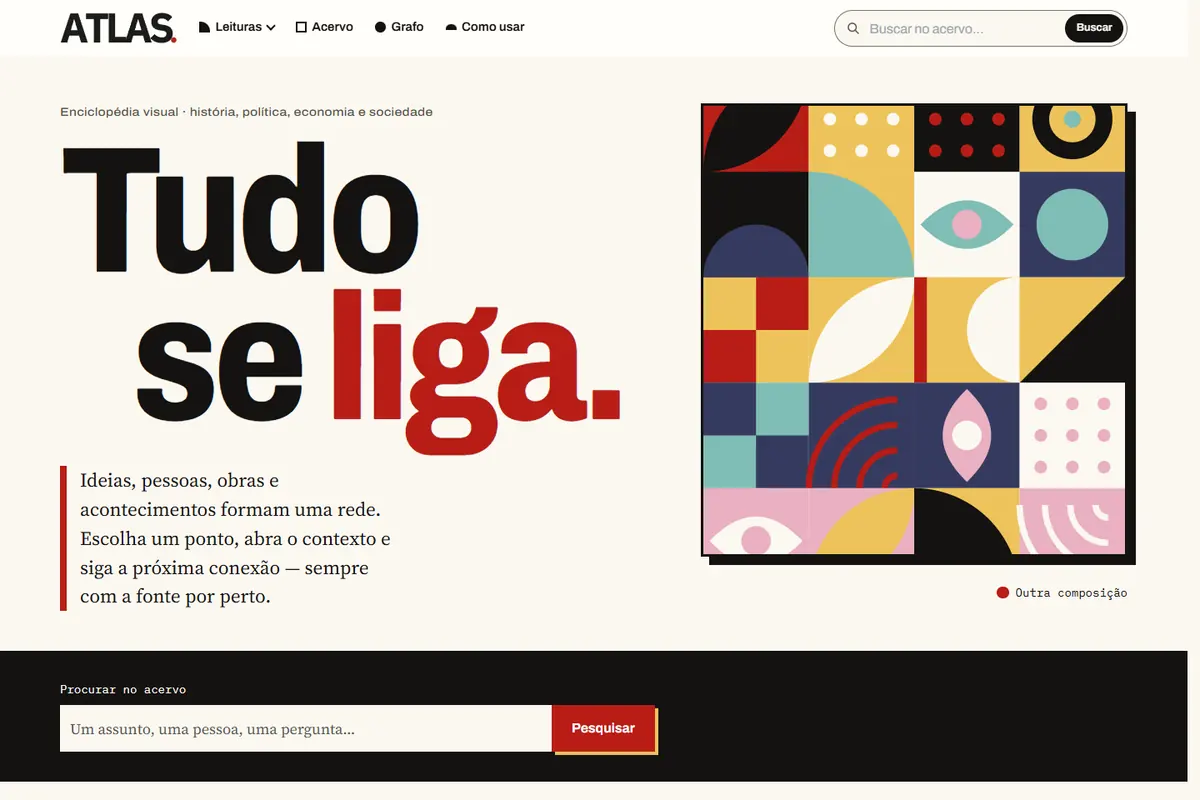
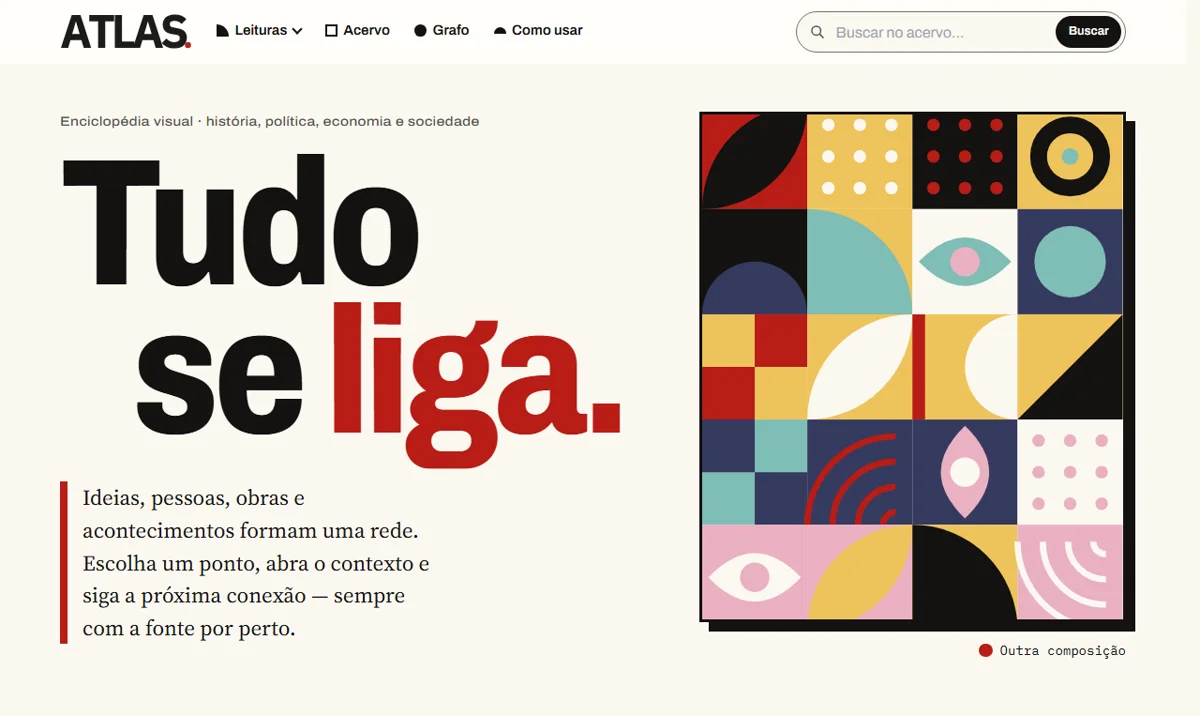
docs: add Dalibre and Scriptorium projects and update ATLAS preview

diff --git a/README.md b/README.md
@@ -45,14 +45,19 @@ My core is **TypeScript, React, Angular and Node.js**. Around it: REST APIs, Pos
 | --- | --- | --- |
 | **[ATLAS](https://github.com/bellussi1/ATLAS)** · [live](https://atlas-bellussi.pages.dev) | Visual encyclopedia of history, politics and society with sources behind every claim. | Angular 21 · TypeScript · Zod · Cloudflare R2 · Static-first |
 | **[KOReader Ecosystem](https://github.com/bellussi1/koreader-ecosystem)** | Local-first Windows companion for Calibre, KOReader, Kindle and Hardcover. | Electron · React · TypeScript · Python · Open source |
+| **[Dalibre](https://github.com/bellussi1/dalibre)** · [plugin template](https://github.com/bellussi1/dalibre-plugin-template) | Fork and upstream contributions to a lightweight native Calibre alternative (pt-BR localization, Lusophone book stores, list sorting and SDK types). | Go · MyGo UI · SQLite · JavaScript |
+| **[Scriptorium](https://github.com/bellussi1/Scriptorium)** | Personal fork of TranslateBooksWithLLMs for resumable literary book translation into Brazilian Portuguese via local Ollama models. | Python · Ollama · Docker Compose · EPUB |
 | **[Black Market](https://github.com/bellussi1/Black-Market)** | Production and market planner for the Brazilian Black Desert Online community. | Angular SSR · NestJS · PostgreSQL · Drizzle · Docker |
 | **[Comandinha](https://github.com/bellussi1/comandinha)** | Restaurant operations platform with digital menus, tables, orders and QR ordering. | Next.js · React · NestJS · PostgreSQL · Prisma |
 | **[Portfolio](https://github.com/bellussi1/bellussi-portifolio)** · [live](https://bellussi.vercel.app) | English-first portfolio with Portuguese version, case studies and ATS-oriented resumes. | HTML · CSS · TypeScript · Vite · Lighthouse 100 |
 
-### Developer tools
+### Developer tools & plugins
 
 | Tool | What it does | Stack |
 | --- | --- | --- |
+| **[Dalibre Hardcover](https://github.com/bellussi1/dalibre-hardcover)** | Two-way Hardcover reading status sync and metadata plugin for Dalibre, paired with KOReader via ISBN. | JavaScript · GraphQL · Dalibre SDK |
+| **[Dalibre ISBN Brasil](https://github.com/bellussi1/dalibre-isbn-brasil)** | Brazilian ISBN (`978-65` / `978-85`) metadata plugin via CBL/BrasilAPI with Open Library fallback. | JavaScript · BrasilAPI · Dalibre SDK |
+| **[Dalibre Open Library](https://github.com/bellussi1/dalibre-openlibrary)** | Open Library metadata source plugin for Dalibre prioritizing matching-language editions. | JavaScript · Open Library · Dalibre SDK |
 | **[Deploy Preflight](https://github.com/bellussi1/deploy-preflight)** | Validates environment variables, build artifacts and endpoints before deployment. | TypeScript · Node.js · GitHub Actions |
 | **[Local Webhook Recorder](https://github.com/bellussi1/local-webhook-recorder)** | Captures webhooks in local SQLite and replays them to loopback handlers. | TypeScript · Node.js · SQLite |
 | **[Compose Doctor](https://github.com/bellussi1/compose-doctor)** | Read-only Docker Compose diagnostics with actionable CLI reports. | TypeScript · Docker Compose · CLI |
@@ -104,6 +109,23 @@ Meu núcleo é **TypeScript, React, Angular e Node.js**. Ao redor: APIs REST, Po
 **[ATLAS](https://atlas-bellussi.pages.dev)** é uma enciclopédia interativa de história, política e sociedade construída sobre um grafo de conhecimento tipado. Pessoas, obras, conceitos e acontecimentos formam uma rede navegável, e cada afirmação mostra sua fonte e se é fato documentado, interpretação, controvérsia ou lacuna assumida.
 
 **Stack:** Angular 21 · TypeScript strict · Signals · Zod · Playwright · axe · Cloudflare R2 · static-first.
+
+### Projetos e ferramentas
+
+| Projeto / ferramenta | O que faz | Stack / estado |
+| --- | --- | --- |
+| **[ATLAS](https://github.com/bellussi1/ATLAS)** · [ao vivo](https://atlas-bellussi.pages.dev) | Enciclopédia visual de história, política e sociedade com fontes em cada afirmação. | Angular 21 · TypeScript · Zod · Cloudflare R2 · Static-first |
+| **[KOReader Ecosystem](https://github.com/bellussi1/koreader-ecosystem)** | Aplicativo Windows local-first para Calibre, KOReader, Kindle e Hardcover. | Electron · React · TypeScript · Python · Open source |
+| **[Dalibre](https://github.com/bellussi1/dalibre)** · [template](https://github.com/bellussi1/dalibre-plugin-template) | Fork e contribuições upstream para alternativa nativa ao Calibre (tradução pt-BR, lojas lusófonas, ordenação e SDK). | Go · MyGo UI · SQLite · JavaScript |
+| **[Scriptorium](https://github.com/bellussi1/Scriptorium)** | Fork pessoal de TranslateBooksWithLLMs para tradução literária retomável para pt-BR via Ollama. | Python · Ollama · Docker Compose · EPUB |
+| **[Dalibre Hardcover](https://github.com/bellussi1/dalibre-hardcover)** | Plugin para Dalibre de sincronização bidirecional de leitura e metadados com o Hardcover. | JavaScript · GraphQL · Dalibre SDK |
+| **[Dalibre ISBN Brasil](https://github.com/bellussi1/dalibre-isbn-brasil)** | Plugin de metadados brasileiros (`978-65` / `978-85`) via CBL/BrasilAPI com fallback na Open Library. | JavaScript · BrasilAPI · Dalibre SDK |
+| **[Dalibre Open Library](https://github.com/bellussi1/dalibre-openlibrary)** | Plugin de busca de metadados na Open Library para o Dalibre com foco em edições no idioma do livro. | JavaScript · Open Library · Dalibre SDK |
+| **[Black Market](https://github.com/bellussi1/Black-Market)** | Planejador de produção e mercado para a comunidade brasileira de Black Desert Online. | Angular SSR · NestJS · PostgreSQL · Drizzle · Docker |
+| **[Comandinha](https://github.com/bellussi1/comandinha)** | Plataforma de operação para restaurantes com cardápio digital, mesas, pedidos e QR Code. | Next.js · React · NestJS · PostgreSQL · Prisma |
+| **[Deploy Preflight](https://github.com/bellussi1/deploy-preflight)** | Valida variáveis de ambiente, artefatos de build e endpoints antes do deploy. | TypeScript · Node.js · GitHub Actions |
+| **[Local Webhook Recorder](https://github.com/bellussi1/local-webhook-recorder)** | Captura webhooks em SQLite local e reproduz eventos para handlers locais. | TypeScript · Node.js · SQLite |
+| **[Compose Doctor](https://github.com/bellussi1/compose-doctor)** | Diagnóstico somente leitura de serviços Docker Compose com relatórios no terminal. | TypeScript · Docker Compose · CLI |
 
 ### Experiência
 
